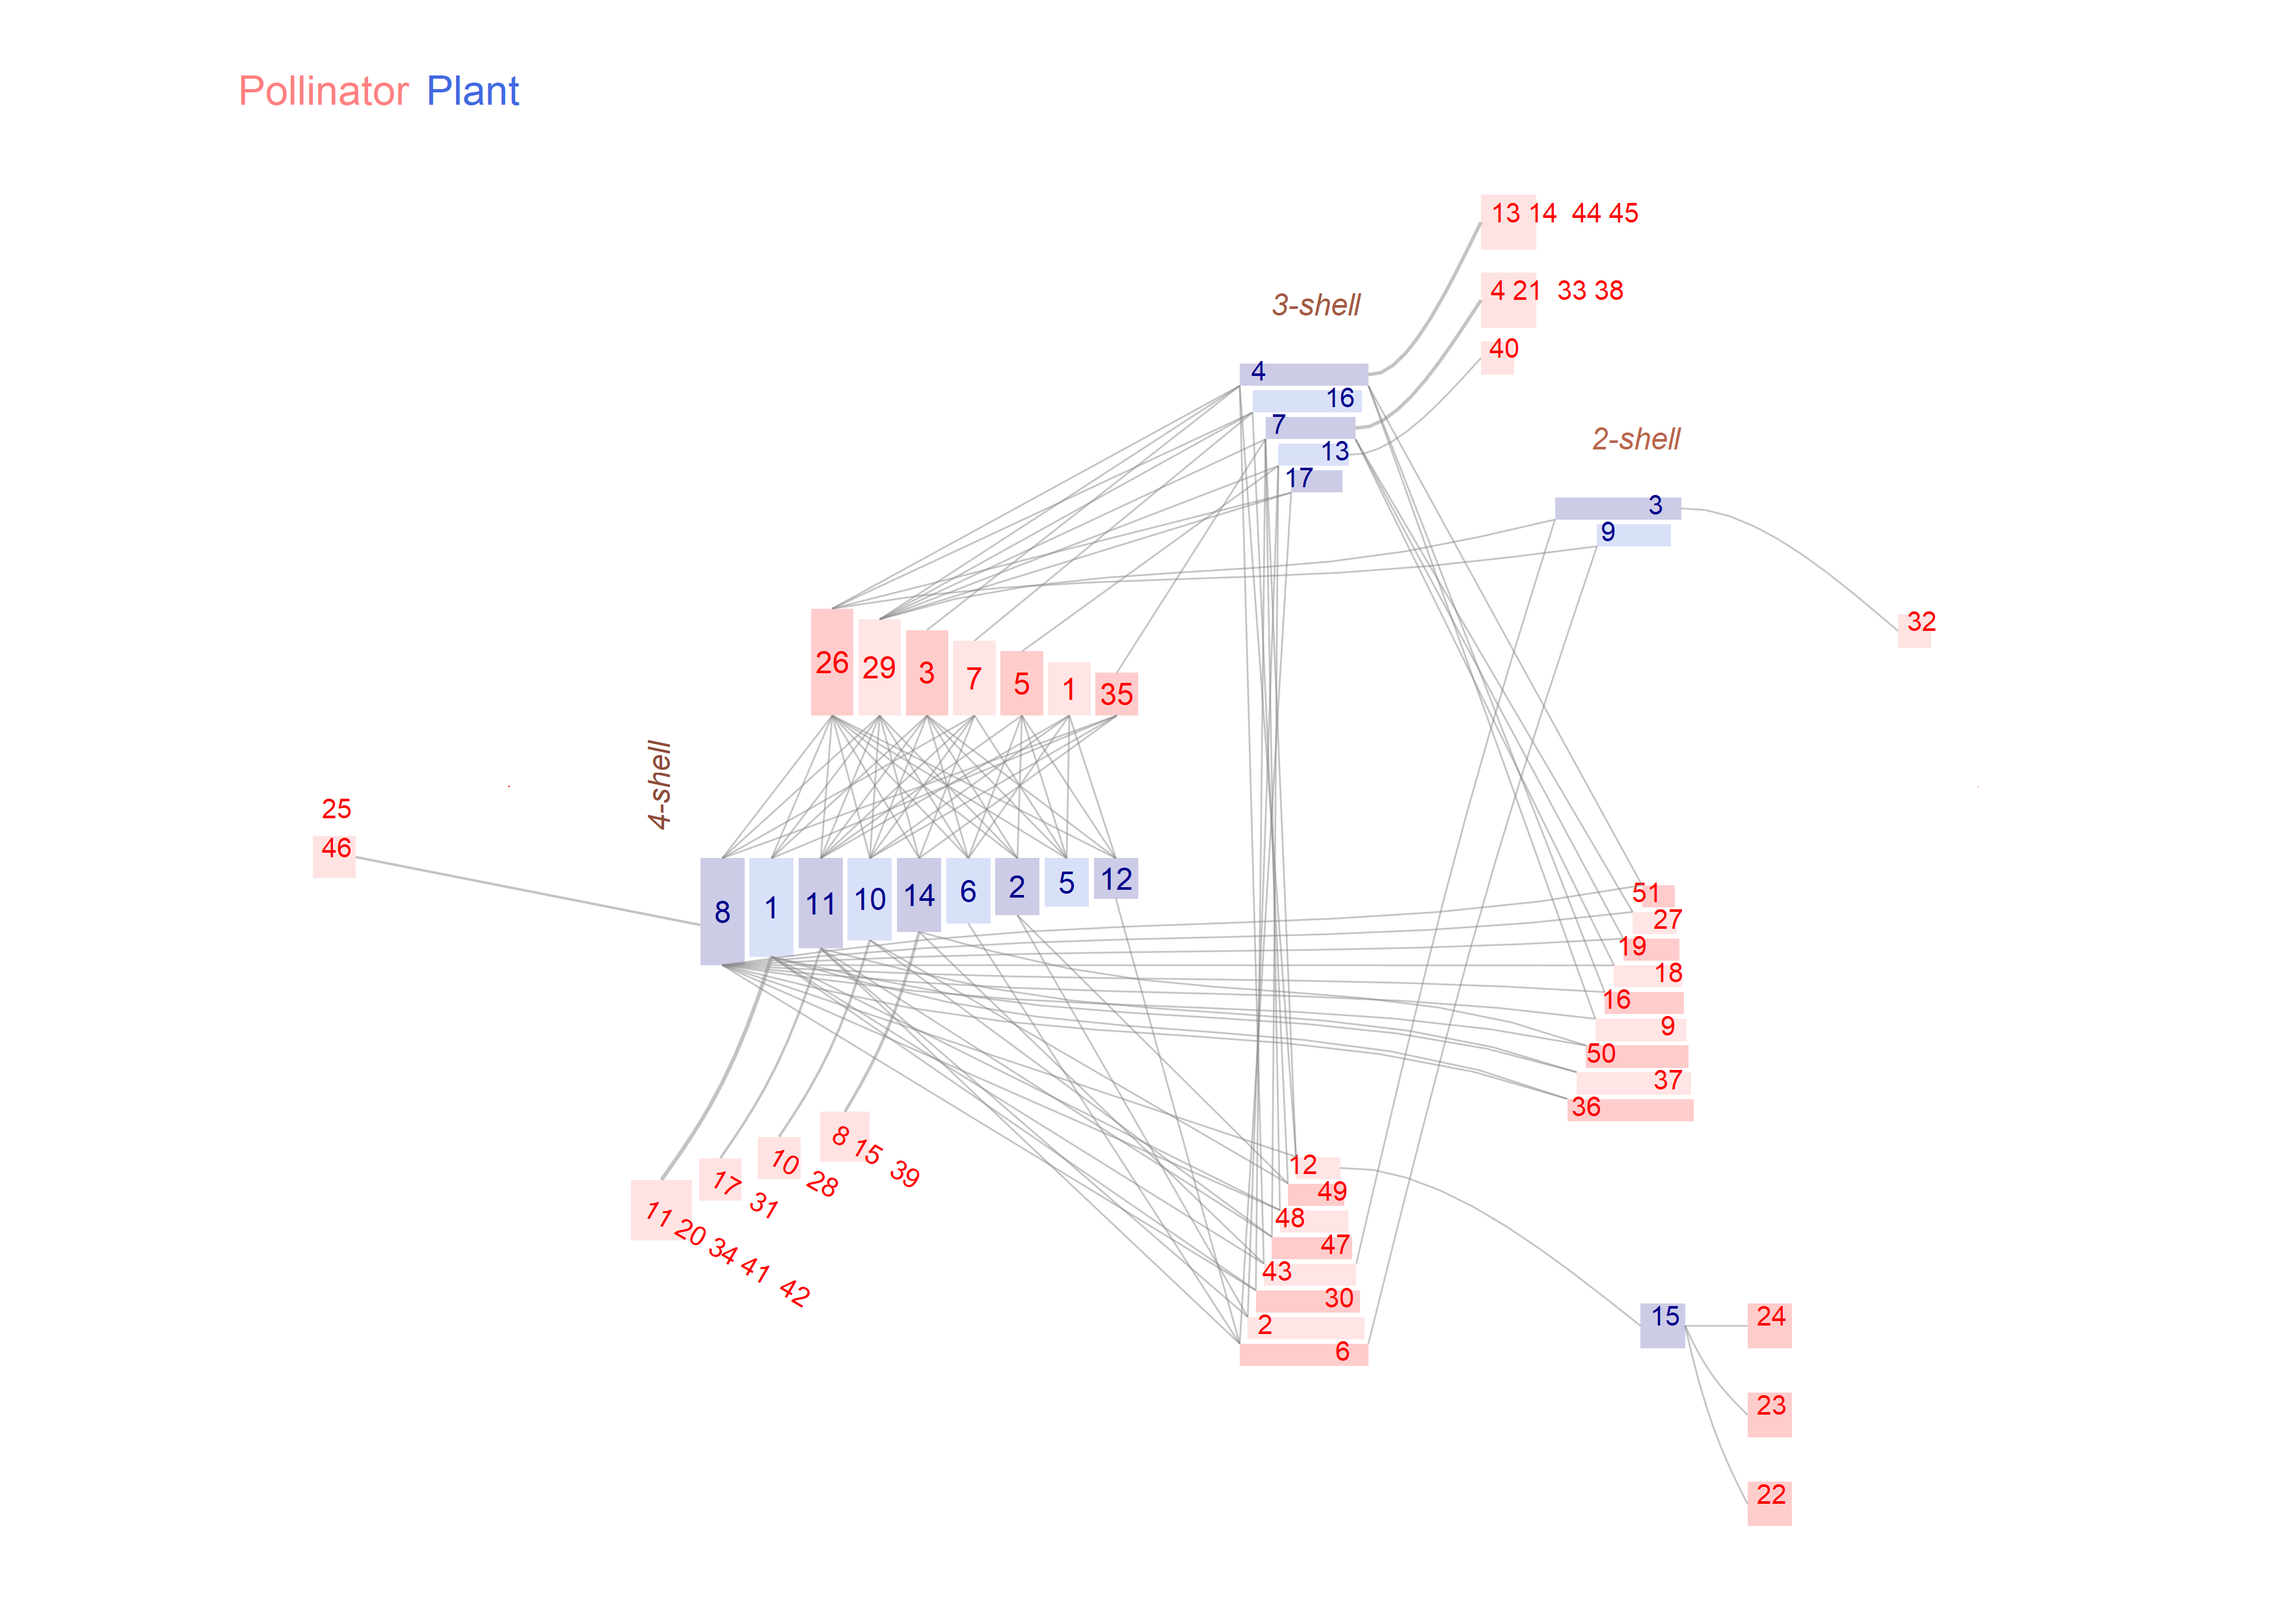
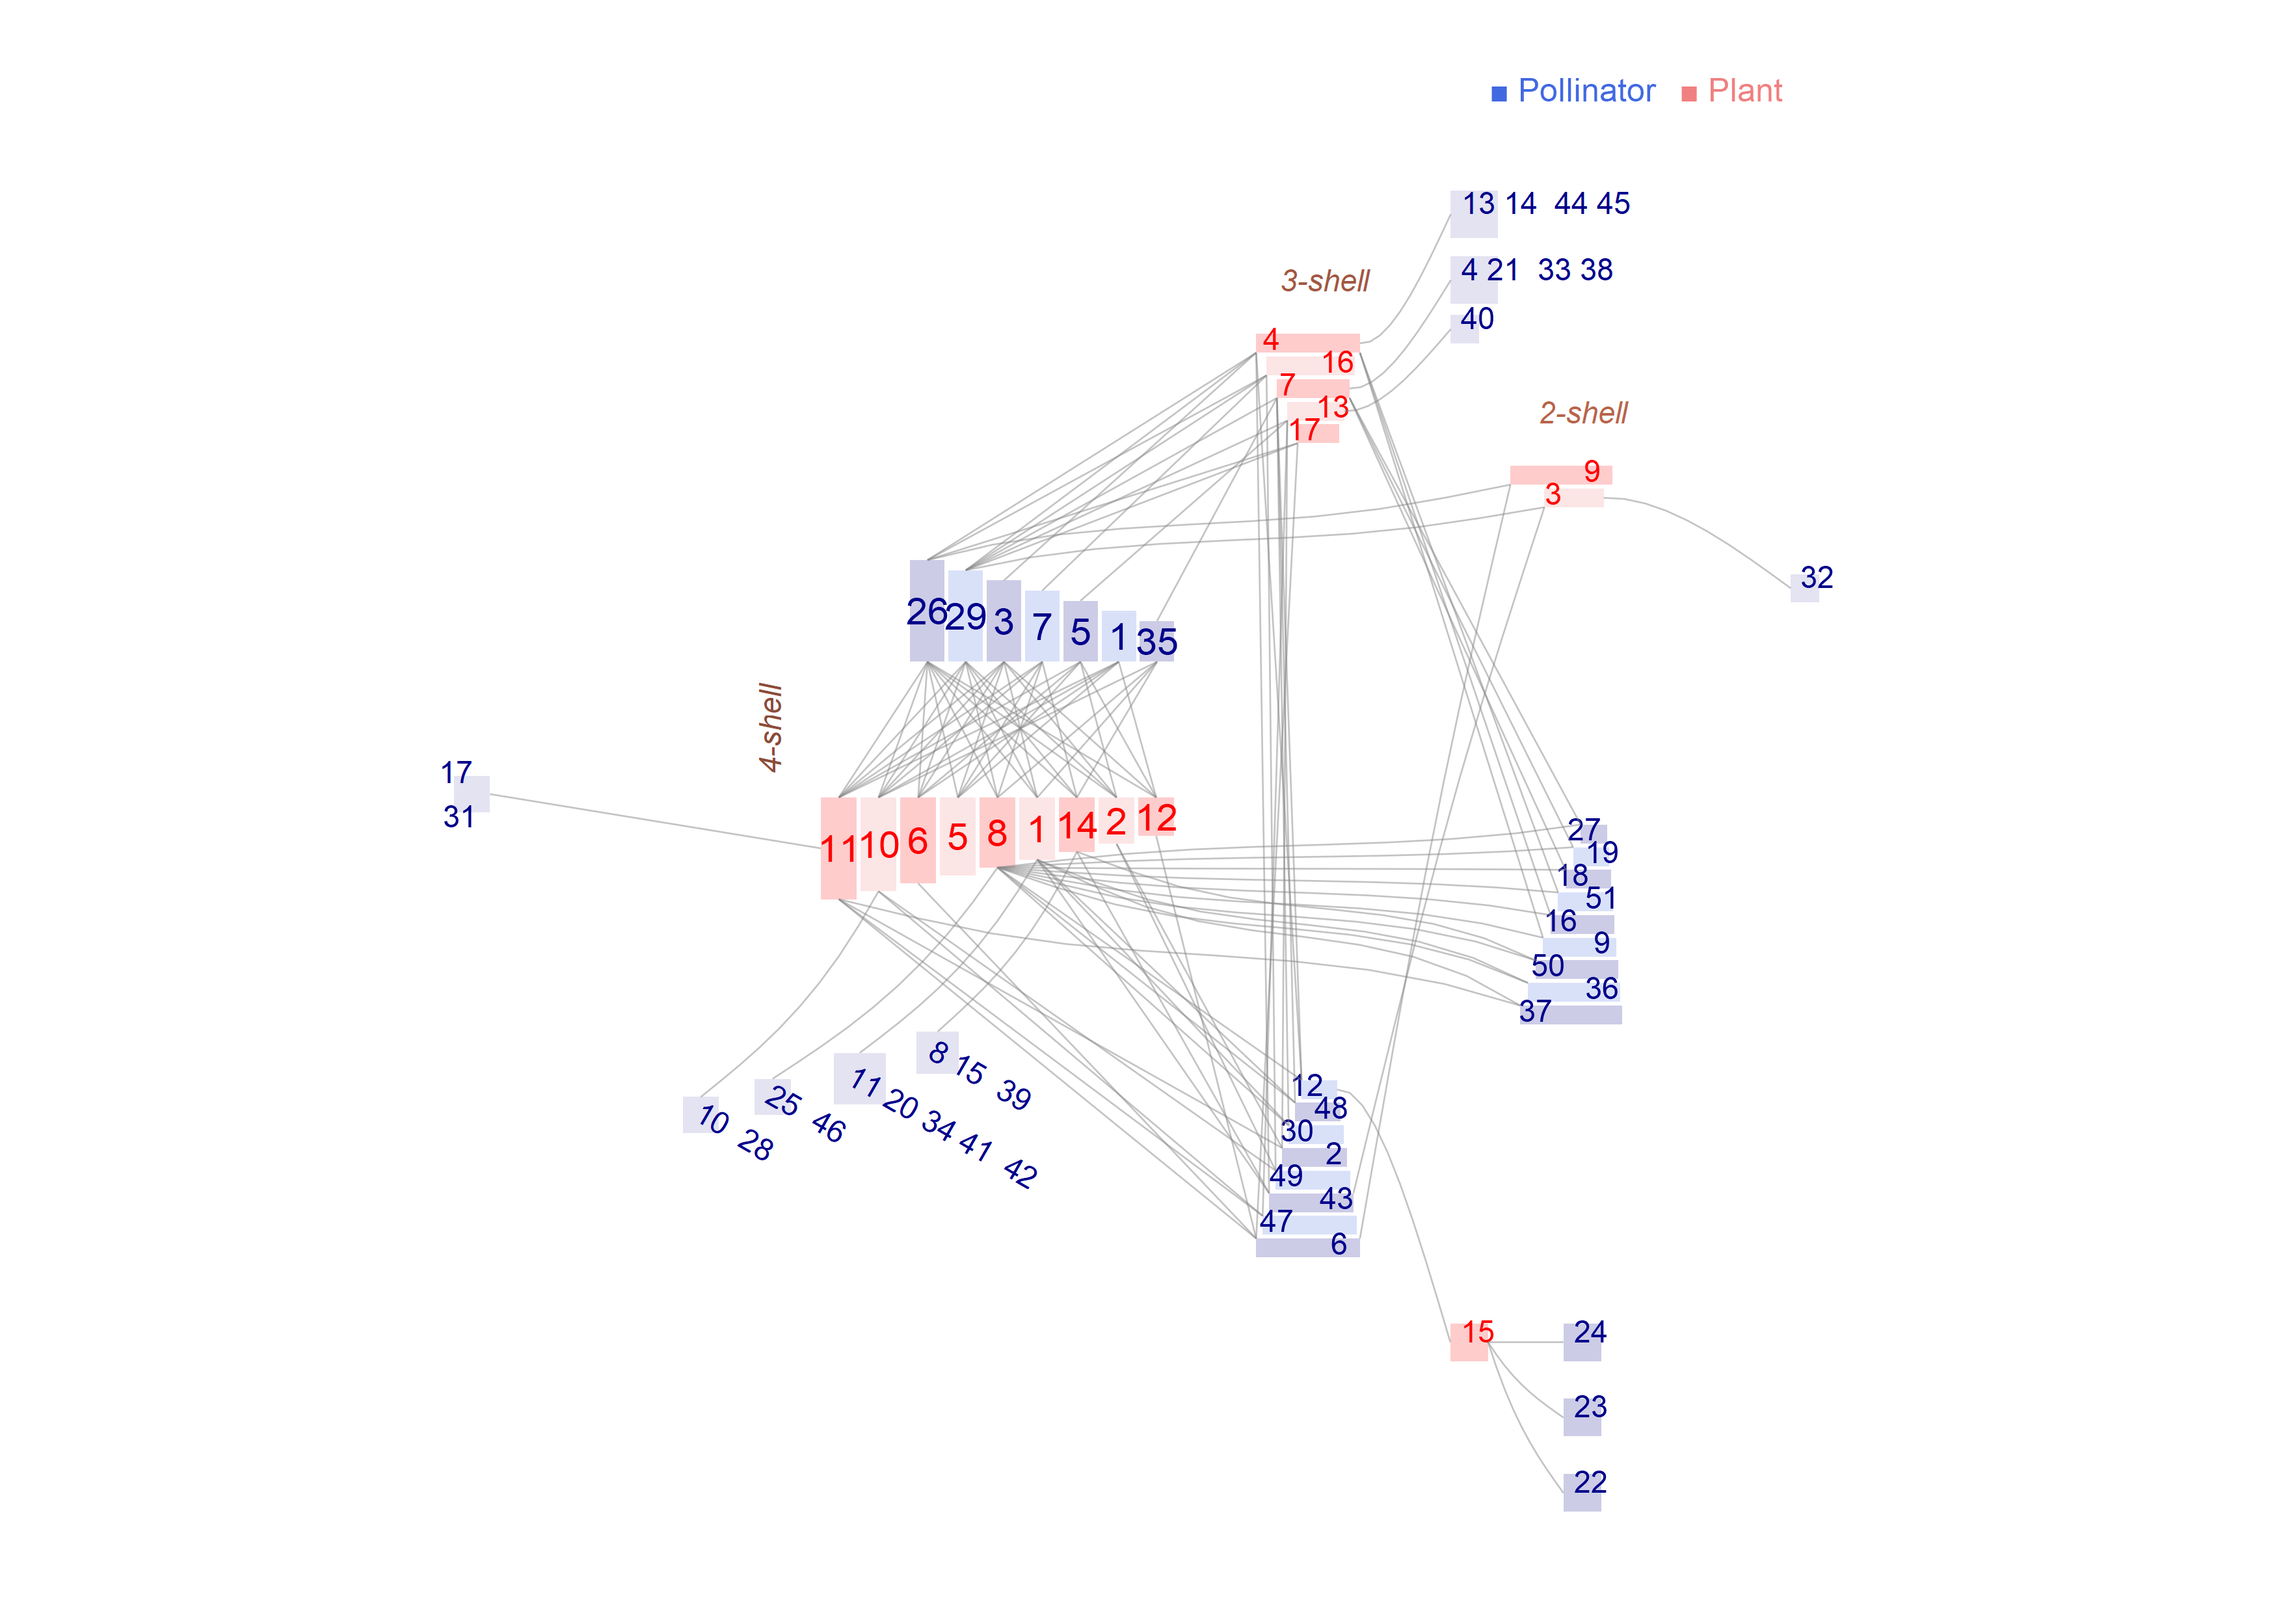
Copy label and references defaults files if personal files are nt available

diff --git a/www/reports/bipartite_M_PL_003_report.html b/www/reports/bipartite_M_PL_003_report.html
@@ -1,0 +1,1 @@
+<!-- Online HTML, CSS and JavaScript editor to run code online.--><!DOCTYPE html><html lang="en"><head>    <meta charset="UTF-8" />    <meta name="viewport" content="width=device-width, initial-scale=1.0" />        <title>M_PL_003 bipartite Network report</title>    <link rel="stylesheet" href="../css/reportstyle.css?refreshcss=1" type="text/css" >    <!-- <script type = 'text/javascript' src = '../scripts/reports.js'></script> --></head><body><div style='max-width: 800px; margin-left:20px' >       <div>       <img src="../images/rect-BipartGraph.png" height = "20px",style =        "position: relative; margin:-15px 0px; display:left-align;">       <div align="right" class='no-print'><a href="Javascript:window.print();"><img src="../images/logos-flexline/printer.png" width="15px"></a></div>          </div>   <div valign="top">      <h4 style="text-align:center">     Network:&nbsp; M_PL_003    </h4>    </div>    <div align="center" id="svgPlot"><img src="M_PL_003_BIPARTITE.png" width=800 ></div>    <span class='GuildTitle' style='color:#4169E1'>Pollinator</span >    <br>    <div class="GuildNamesList"><span style='color:#4169E1'>1 Andinus venustus, 2 Anthidium espinosai, 3 Anthidium sp1 M_PL_003, 4 Bombus dahlbomii, 5 Coleoptera sp4 M_PL_003, 6 Cynthia terpsichore, 7 Dasybasis sp1 M_PL_003, 8 Diptera sp1 M_PL_003, 9 Faunula leucoglene, 10 Habromyia lipoflava, 11 Hypsochila wagenknechti, 12 Megachile semirufa, 13 Megachile sp1 M_PL_003, 14 Phulia nymphula, 15 Pseudolucia chilensis, 16 Scaeva melanostoma, 17 Tatochila mercedis, 18 Unidentified sp2 M_PL_003, 19 Unidentified sp3 M_PL_003, 20 Unidentified sp5 M_PL_003, 21 Unidentified sp6 M_PL_003, 22 Unidentified sp7 M_PL_003, 23 Vibrissomyia sp1 M_PL_003, 24 Villa sp1 M_PL_003, 25Yramea modesta</span></div>    <br>        <span class='GuildTitle' style='color:#F08080'>Plant</span >    <br>    <div class="GuildNamesList"><span style='color:#F08080'>1 Acaena pinnatifida, 2 Adesmia capitellata, 3 Adesmia glomerula, 4 Azorella madreporica, 5 Caiophora coronata, 6 Calandrinia affinis, 7 Calandrinia caespitosa, 8 Calandrinia occulta, 9 Calandrinia picta, 10 Calandrinia sericea, 11 Cardamine nivalis, 12 Chaetanthera flabellata, 13 Chaetanthera lycopodioides, 14 Draba gilliesii, 15 Draba tenuis, 16 Erigeron andicola, 17 Junellia uniflora, 18 Laretia acaulis, 19 Leuceria salina, 20 Loasa caespitosa, 21 Nassauvia lagascae, 22 Nassauvia pinnigera, 23 Nassauvia pungens, 24 Nototriche compacta, 25 Oreopolus glacialis, 26 Oxalis compacta, 27 Oxalis sp1 M_PL_003, 28 Phacelia secunda, 29 Pozoa coriacea, 30 Ranunculus peduncularis, 31 Senecio francisci, 32 Tropaeolum polyphyllum, 33 Valeriana radicalis, 34 Viola atropurpurea, 35 Viola montagnei, 36Viola philippii</span></div>    <br><br>    <div class="Citation"><br>Arroyo, M.T.K., R. Primack & J.J. Armesto. 1982. Community studies in pollination ecology in the high temperate Andes of central Chile. I. Pollination mechanisms and altitudinal variation. Amer. J. Bot. 69:82-97. &nbsp; Cordon del Cepo, Chile</div></div></body></html>

diff --git a/docs/index.html b/docs/index.html
@@ -89,10 +89,20 @@ ul.task-list li input[type="checkbox"] {
 <div style="font-size:10px">
 <p>Mutualistic community in Tenerife, Canary Islands (Spain), with 68 species and 129 links [ L. Stald, A. Valido, and J. Olesen, Struktur og dynamik i rum og tid at et bestøvningsnetværk pA tenerife, de kanariske øer, Master, thesis, University of Aarhus, Denmark, 2003]. In mutualism, species fall into two disjoint guilds, such as plants and pollinators or plants and seed dispersers. Ties amongst species of the same guild are forbidden. (a) Bipartite plot of this community. (b) Interaction matrix.</p>
 </div>
-<p>BipartGraph works with two type of plots: ziggurat and polar. The ziggurat plot works by splitting both guilds in groups of k-shells, and distributes them in an almond-like shape to improve readability. This diagram makes easier to spot central and peripheral nodes.</p>
+<p><strong>BipartGraph</strong> works with four type of plots: bipartite, matrix, ziggurat and polar. The bipartite plot offers three variants. <em>Legacy</em> is the classical depiction of a bipartite network, with nodes of both guilds ordered by descending degree.</p>
+<p><img src="images/M_PL_039-legacy.png" class="img-fluid"></p>
+<div data-align="center" style="font-size:10px">
+<p>Legacy bipartite plot of the same mutualistic community.</p>
+</div>
+<p>Using the k-core decomposition properties, <strong>BipartGraph</strong> offers two original kinds of bipartite plot, <em>kcore ordered</em> and <em>chilopod</em> plots. This second one, provides a more compact and insightful graph by information reduction where specialist nodes are packed together.</p>
+<p><img src="images/M_PL_039-chilopod.png" class="img-fluid"></p>
+<div data-align="center" style="font-size:10px">
+<p>Chilopod bipartite plot of the example community.</p>
+</div>
+<p>The ziggurat plot works by splitting both guilds in groups of k-shells, and distributes them in an almond-like shape to improve readability. This diagram makes easier to spot central and peripheral nodes.</p>
 <div class="quarto-figure quarto-figure-center">
 <figure class="figure">
-<p><img src="images/M_PL_039-ziggurat.png" class="img-fluid figure-img" width="700"></p>
+<p><img src="images/M_PL_039-ziggurat.png" class="img-fluid figure-img" width="800"></p>
 </figure>
 </div>
 <div data-align="center" style="font-size:10px">
